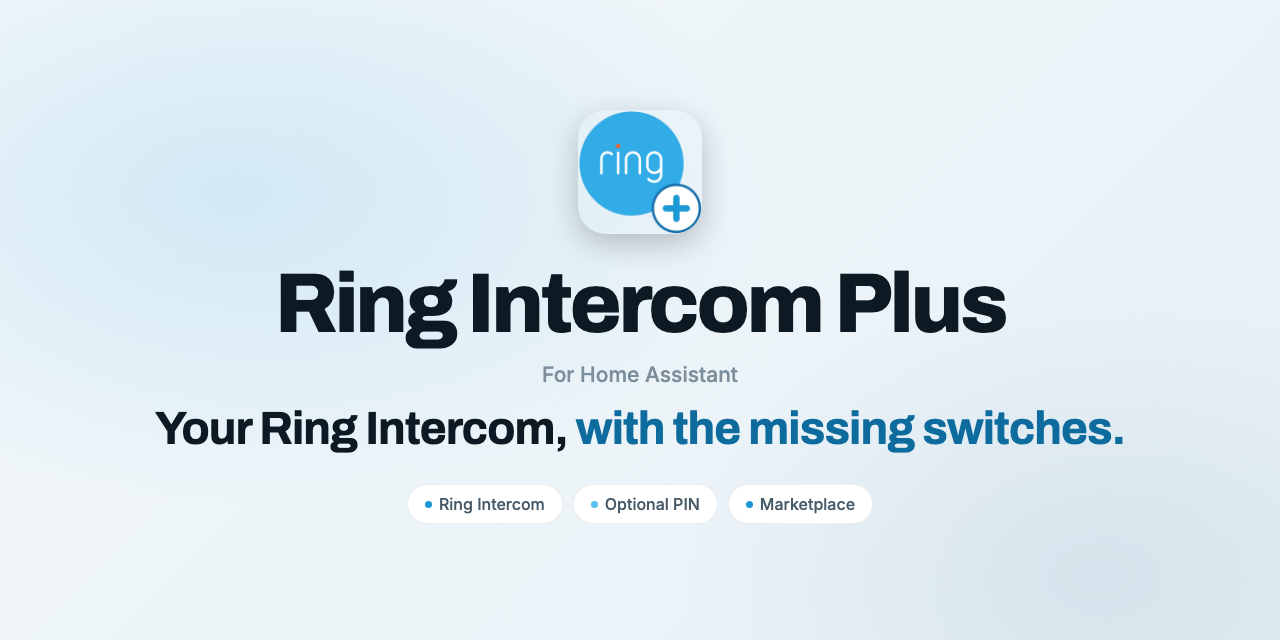
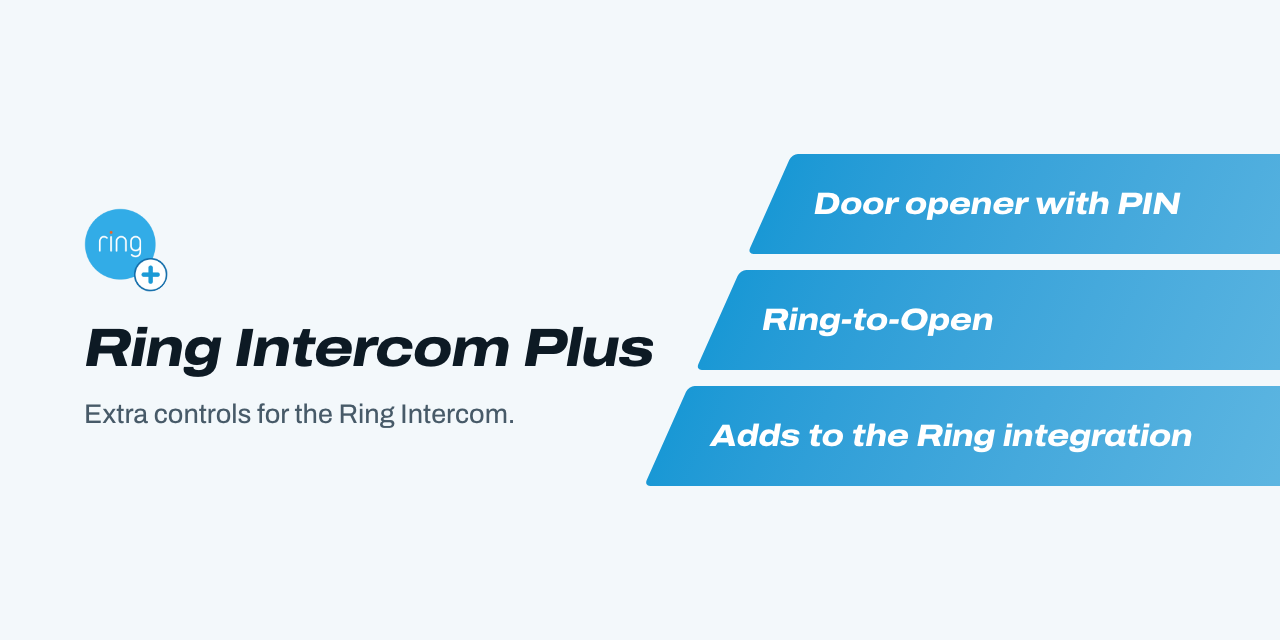
README and project page in the v2 design
Title banner with the lanes, Install and Set up as one Get started, shared
footer. The page loads theme v2 (Archivo from sh1ft-w.github.io), hero left
with the three key facts on the lanes.

Claude-Session: https://claude.ai/code/session_01TLmTtZLAvnS1BJ3w9tzxXq

diff --git a/docs/index.html b/docs/index.html
@@ -13,32 +13,30 @@
 <meta property="og:description" content="Door opener, ding, call active and more for the Ring Intercom in Home Assistant.">
 <meta property="og:image" content="https://sh1ft-w.github.io/ring-intercom-plus/images/readme-title-social.png">
 <link rel="icon" href="logo.png">
-<link rel="preconnect" href="https://fonts.googleapis.com">
-<link rel="preconnect" href="https://fonts.gstatic.com" crossorigin>
-<link href="https://fonts.googleapis.com/css2?family=Archivo:wght@600;700;800;900&family=Inter:wght@400;500;600&family=JetBrains+Mono:wght@400;500&display=swap" rel="stylesheet">
-<!-- Shared SH1FT-W design (tokens, glass navigation, light/dark, DE/EN, reveal) -->
-<link rel="stylesheet" href="https://sh1ft-w.github.io/theme/v1/theme.css">
-<script src="https://sh1ft-w.github.io/theme/v1/theme.js"></script>
+<!-- Shared SH1FT-W design, version 2 (tokens, Archivo, navigation, light/dark, DE/EN, the lanes) -->
+<link rel="stylesheet" href="https://sh1ft-w.github.io/theme/v2/theme.css">
+<script src="https://sh1ft-w.github.io/theme/v2/theme.js"></script>
 <style>
 /* Ring-Plus-Palette: kühles Weiß bei Tag, tiefes Blau bei Nacht, Akzent im Ring-Blau #1998D5 */
 :root {
   --accent: #1998D5; --accent-ink: #0E6B9E; --on-accent: #ffffff;
-  --sea: #1998D5; --sea-tint: rgba(25,152,213,0.10); --sea-glow: rgba(25,152,213,0.30); --aqua: #3BB0E8;
+  --sea: #1998D5; --sea-tint: rgba(25,152,213,0.10); --aqua: #3BB0E8;
   --ch-w: #8FA3B1; --ch-b: #2F7FD8; --ch-g: #2FA36A; --ch-r: #E0584A;
-  --font: "Inter", -apple-system, BlinkMacSystemFont, system-ui, sans-serif;
-  --display: "Archivo", "Inter", -apple-system, BlinkMacSystemFont, system-ui, sans-serif;
-  --mono: "JetBrains Mono", ui-monospace, "SF Mono", Menlo, monospace;
+  --font: "Archivo", -apple-system, BlinkMacSystemFont, system-ui, sans-serif;
+  --display: "Archivo", -apple-system, BlinkMacSystemFont, system-ui, sans-serif;
+  --mono: ui-monospace, "SF Mono", Menlo, monospace;
+  --lane-a: #1998D5; --lane-b: #5BC0EE;
   --bg: #F3F8FB; --bg-2: #E6F0F6; --card: #FFFFFF; --card-2: #F0F6FA;
   --ink: #0D1A24; --ink-2: #475A68; --ink-3: rgba(13,26,36,0.56);
   --line: rgba(5,40,65,0.11); --chip: rgba(5,40,65,0.06);
   --glass: rgba(250,253,255,0.72); --glass-line: rgba(255,255,255,0.75);
   --shadow: 0 1px 2px rgba(5,30,50,0.05), 0 12px 32px -14px rgba(5,30,50,0.22);
   --shadow-lg: 0 2px 6px rgba(5,30,50,0.05), 0 48px 100px -36px rgba(5,30,50,0.40);
-  --radius: 26px; --radius-lg: 36px;
+  --radius: 20px; --radius-lg: 28px; --max: 1200px;
 }
 @media (prefers-color-scheme: dark) { :root:not([data-theme="light"]) {
   --accent: #3BB0E8; --accent-ink: #6CC8F3; --on-accent: #04121B;
-  --sea: #3BB0E8; --sea-tint: rgba(59,176,232,0.14); --sea-glow: rgba(59,176,232,0.28);
+  --sea: #3BB0E8; --sea-tint: rgba(59,176,232,0.14);
   --ch-w: #DCE6EC;
   --bg: #07121A; --bg-2: #0C1B26; --card: #10222F; --card-2: #162B3A;
   --ink: #EAF3F9; --ink-2: rgba(220,234,244,0.84); --ink-3: rgba(220,234,244,0.54);
@@ -48,7 +46,7 @@
 } }
 :root[data-theme="dark"] {
   --accent: #3BB0E8; --accent-ink: #6CC8F3; --on-accent: #04121B;
-  --sea: #3BB0E8; --sea-tint: rgba(59,176,232,0.14); --sea-glow: rgba(59,176,232,0.28);
+  --sea: #3BB0E8; --sea-tint: rgba(59,176,232,0.14);
   --ch-w: #DCE6EC;
   --bg: #07121A; --bg-2: #0C1B26; --card: #10222F; --card-2: #162B3A;
   --ink: #EAF3F9; --ink-2: rgba(220,234,244,0.84); --ink-3: rgba(220,234,244,0.54);
@@ -64,58 +62,53 @@ a:hover { text-decoration: underline; text-underline-offset: 3px; }
 .narrow { max-width: 780px; }
 p { margin: 0; }
 .muted { color: var(--ink-2); }
-.center { text-align: center; }
-.center .lead { margin-left: auto; margin-right: auto; max-width: 680px; }
+.center { text-align: left; }
+.center .lead { max-width: 680px; }
 code, .k { font-family: var(--mono); font-variant-numeric: tabular-nums; }
 .brand { font-family: var(--display); font-weight: 800; }
 .brand img { border-radius: 8px; }
 
 /* Knöpfe */
 .btn {
-  display: inline-flex; align-items: center; justify-content: center; gap: 8px; height: 48px; padding: 0 24px; border-radius: 999px;
+  display: inline-flex; align-items: center; justify-content: center; gap: 8px; height: 48px; padding: 0 24px; border-radius: 12px;
   font-family: inherit; font-size: 15px; font-weight: 600; line-height: 1; background: var(--sea); color: var(--on-accent); border: 0; cursor: pointer;
-  box-shadow: 0 12px 28px -12px var(--sea-glow); transition: transform .2s ease, filter .2s ease;
+  transition: transform .2s ease, filter .2s ease;
 }
 .btn:hover { text-decoration: none; filter: brightness(1.1); transform: translateY(-1px); }
-.btn.ghost { background: var(--card); color: var(--ink); box-shadow: var(--shadow); }
+.btn.ghost { background: var(--chip); color: var(--ink); }
 .btn.small { height: 36px; padding: 0 16px; font-size: 14px; }
 
 /* Schrift */
-.eyebrow { display: inline-flex; align-items: center; gap: 8px; font-size: 13px; font-weight: 600; letter-spacing: 0.08em; text-transform: uppercase; color: var(--accent-ink); margin: 0 0 18px; }
-.eyebrow::before { content: ""; width: 8px; height: 8px; border-radius: 50%; background: var(--aqua); box-shadow: 0 0 0 4px var(--sea-tint); }
+.eyebrow { font-size: 16px; font-weight: 650; color: var(--accent-ink); margin: 0 0 12px; }
 h1, h2, h3 { margin: 0; color: var(--ink); font-family: var(--display); font-weight: 800; text-wrap: balance; }
-h1 { font-size: clamp(44px, 8vw, 100px); line-height: 0.96; letter-spacing: -0.04em; font-weight: 900; }
-h1 em, h2 em { font-style: normal; color: var(--accent-ink); }
-h2 { font-size: clamp(34px, 5vw, 60px); line-height: 1.03; letter-spacing: -0.035em; }
-h3 { font-size: 20px; line-height: 1.2; letter-spacing: -0.015em; font-weight: 700; }
+h1 { font-size: clamp(44px, 6vw, 84px); line-height: 1; font-weight: 800; font-stretch: 118%; font-style: italic; letter-spacing: -0.025em; }
+h1 em, h2 em { font-style: inherit; color: inherit; }
+h2 { font-size: clamp(30px, 3.8vw, 48px); line-height: 1.08; font-weight: 750; font-stretch: 112%; letter-spacing: -0.02em; }
+h3 { font-size: 20px; line-height: 1.2; letter-spacing: -0.015em; font-weight: 700; font-stretch: 106%; }
 .lead { font-size: clamp(18px, 2vw, 22px); line-height: 1.5; color: var(--ink-2); margin: 22px 0 0; }
 .lead strong { color: var(--ink); font-weight: 600; }
 
 section { padding: clamp(72px, 9vw, 120px) 0; position: relative; }
 section.tint { background: var(--bg-2); }
-.head { margin-bottom: clamp(36px, 5vw, 60px); }
-.cap { margin-top: 20px; font-size: 15px; color: var(--ink-3); text-align: center; }
+.head { margin-bottom: clamp(36px, 5vw, 60px); max-width: 50em; }
+.cap { margin-top: 20px; font-size: 15px; color: var(--ink-3); }
 
-/* Hero */
-.hero { padding: clamp(56px, 9vw, 112px) 0 clamp(64px, 8vw, 104px); text-align: center; overflow: hidden; }
-.hero .glow { position: absolute; inset: -20% -10% auto; height: 90%; pointer-events: none;
-  background: radial-gradient(40% 36% at 30% 30%, rgba(25,152,213,0.18), transparent 70%), radial-gradient(36% 34% at 72% 24%, rgba(10,70,120,0.12), transparent 70%);
-  filter: blur(50px); }
-.hero .wrap { position: relative; }
-.hero .lead { max-width: 660px; margin-left: auto; margin-right: auto; }
-.cta { display: flex; flex-wrap: wrap; gap: 12px; justify-content: center; margin-top: 34px; }
-.meta { margin-top: 22px; font-size: 14px; color: var(--ink-3); display: flex; flex-wrap: wrap; gap: 8px 14px; justify-content: center; align-items: center; }
-.pill { display: inline-flex; align-items: center; gap: 6px; padding: 5px 12px; border-radius: 999px; background: var(--card); box-shadow: var(--shadow); font-weight: 600; color: var(--ink-2); font-size: 13px; }
+/* Hero: text left, the lanes right */
+.hero { padding: clamp(48px, 7vw, 96px) 0 clamp(56px, 7vw, 96px); overflow: hidden; }
+.hero .wrap { display: grid; grid-template-columns: minmax(0, 1.15fr) minmax(0, 1fr); gap: clamp(24px, 4vw, 64px); align-items: center; }
+.hero .mark { display: block; width: 64px; height: 64px; border-radius: 15px; margin-bottom: 26px; }
+.hero .lead { max-width: 34em; }
+.hero .s-lanes { margin-left: 32px; margin-right: calc(-1 * var(--gutter) - 14vw); }
+.s-track b { color: #fff; font: italic 800 clamp(20px, 2.5vw, 34px)/1 var(--font); font-stretch: 116%; letter-spacing: -0.015em; white-space: nowrap; }
+.cta { display: flex; flex-wrap: wrap; gap: 12px; margin-top: 34px; }
+.meta { margin-top: 22px; font-size: 14px; color: var(--ink-3); display: flex; flex-wrap: wrap; gap: 8px 14px; align-items: center; }
+.pill { display: inline-flex; align-items: center; gap: 6px; padding: 5px 12px; border-radius: 8px; background: var(--chip); font-weight: 600; color: var(--ink-2); font-size: 13px; }
 .pill i { width: 7px; height: 7px; border-radius: 50%; background: var(--aqua); display: inline-block; }
-
-/* Bühne: das README-Titelbild */
-.stage { position: relative; margin: clamp(48px, 7vw, 84px) auto 0; max-width: 1100px; }
-.stage .photo { display: block; width: 100%; height: auto; aspect-ratio: 2 / 1; border-radius: var(--radius-lg); box-shadow: var(--shadow-lg); }
 
 /* Bento: Gerade neu */
 .bento { display: grid; grid-template-columns: repeat(12, 1fr); gap: 16px; }
-.b { background: var(--card); border-radius: var(--radius); box-shadow: var(--shadow); padding: 26px 28px 28px; min-width: 0; }
-.b .tag { display: inline-block; font-size: 12px; font-weight: 600; letter-spacing: 0.06em; text-transform: uppercase; color: var(--accent-ink); background: var(--sea-tint); padding: 4px 10px; border-radius: 999px; margin-bottom: 14px; }
+.b { background: var(--card); border-radius: var(--radius); border: 1px solid var(--line); padding: 26px 28px 28px; min-width: 0; }
+.b .tag { display: inline-block; font-size: 13px; font-weight: 600; color: var(--accent-ink); background: var(--sea-tint); padding: 4px 10px; border-radius: 6px; margin-bottom: 14px; }
 .b h3 { margin-bottom: 8px; }
 .b p { color: var(--ink-2); font-size: 16px; }
 .b code { font-size: 14px; background: var(--chip); padding: 2px 6px; border-radius: 6px; color: var(--ink); }
@@ -123,11 +116,11 @@ section.tint { background: var(--bg-2); }
 
 /* Funktionen */
 .grid3 { display: grid; grid-template-columns: repeat(3, minmax(0, 1fr)); gap: 16px; }
-.tile { background: var(--card); border-radius: var(--radius); padding: 28px; box-shadow: var(--shadow); min-width: 0; }
+.tile { background: var(--card); border-radius: var(--radius); padding: 28px; border: 1px solid var(--line); min-width: 0; }
 .tile h3 { margin-bottom: 8px; }
 .tile p { color: var(--ink-2); font-size: 16px; }
 .tile code { font-size: 14px; background: var(--chip); padding: 2px 6px; border-radius: 6px; }
-.tile .ico { width: 46px; height: 46px; border-radius: 15px; background: var(--sea-tint); color: var(--accent-ink); display: grid; place-items: center; margin-bottom: 18px; }
+.tile .ico { width: 46px; height: 46px; border-radius: 10px; background: var(--sea-tint); color: var(--accent-ink); display: grid; place-items: center; margin-bottom: 18px; }
 .tile .ico svg { width: 23px; height: 23px; }
 
 /* Profil-Illustration */
@@ -136,7 +129,7 @@ section.tint { background: var(--bg-2); }
 .points li { display: grid; gap: 2px; }
 .points b { font-family: var(--display); font-size: 17px; font-weight: 700; color: var(--ink); }
 .points span { color: var(--ink-2); font-size: 16px; }
-.prof { background: var(--card); border-radius: var(--radius-lg); box-shadow: var(--shadow-lg); padding: clamp(22px, 4vw, 36px); min-width: 0; }
+.prof { background: var(--card); border-radius: var(--radius-lg); border: 1px solid var(--line); padding: clamp(22px, 4vw, 36px); min-width: 0; }
 .prof-head { display: flex; justify-content: space-between; align-items: center; gap: 12px; flex-wrap: wrap; }
 .prof-head b { font-family: var(--display); font-size: 18px; }
 .days { display: flex; gap: 6px; flex-wrap: wrap; margin-top: 16px; }
@@ -154,9 +147,9 @@ section.tint { background: var(--bg-2); }
 .prof-foot b { font-weight: 600; font-size: 15px; }
 
 /* Entitäten-Tabelle */
-.tbl { width: 100%; border-collapse: separate; border-spacing: 0; background: var(--card); border-radius: var(--radius); box-shadow: var(--shadow); overflow: hidden; font-size: 15px; }
+.tbl { width: 100%; border-collapse: separate; border-spacing: 0; background: var(--card); border-radius: var(--radius); border: 1px solid var(--line); overflow: hidden; font-size: 15px; }
 .tbl th, .tbl td { text-align: left; padding: 14px 18px; border-top: 1px solid var(--line); vertical-align: top; }
-.tbl thead th { border-top: 0; font-size: 12px; font-weight: 600; letter-spacing: 0.06em; text-transform: uppercase; color: var(--accent-ink); background: var(--card-2); }
+.tbl thead th { border-top: 0; font-size: 13px; font-weight: 600; color: var(--accent-ink); background: var(--card-2); }
 .tbl td:first-child { font-weight: 600; white-space: nowrap; }
 .tbl.core td:first-child { white-space: normal; }
 .tbl.core th:not(:first-child), .tbl.core td:not(:first-child) { text-align: center; width: 26%; color: var(--accent-ink); font-weight: 600; }
@@ -165,7 +158,7 @@ section.tint { background: var(--bg-2); }
 
 /* Wie es funktioniert */
 .flow { display: grid; gap: 12px; max-width: 900px; margin: 0 auto; }
-.lane { display: grid; grid-template-columns: 1fr auto 1fr; gap: 16px; align-items: center; background: var(--card); border-radius: 22px; box-shadow: var(--shadow); padding: 18px 22px; }
+.lane { display: grid; grid-template-columns: 1fr auto 1fr; gap: 16px; align-items: center; background: var(--card); border-radius: 22px; border: 1px solid var(--line); padding: 18px 22px; }
 .lane .end b { display: block; font-family: var(--display); font-size: 16px; }
 .lane .end span { font-size: 14px; color: var(--ink-2); }
 .lane .end.r { text-align: right; }
@@ -174,12 +167,12 @@ section.tint { background: var(--bg-2); }
 
 /* Installation */
 .install { display: grid; grid-template-columns: 1.2fr 1fr; gap: 20px; }
-.panel { background: var(--card); border-radius: var(--radius); padding: clamp(26px, 4vw, 42px); box-shadow: var(--shadow); min-width: 0; }
+.panel { background: var(--card); border-radius: var(--radius); padding: clamp(26px, 4vw, 42px); border: 1px solid var(--line); min-width: 0; }
 .panel h3 { margin-bottom: 6px; }
 .panel code { font-size: 14px; background: var(--chip); padding: 2px 6px; border-radius: 6px; overflow-wrap: anywhere; }
-.repo { margin-top: 10px; display: flex; align-items: center; gap: 8px; background: var(--chip); border-radius: 18px; padding: 8px 8px 8px 18px; }
+.repo { margin-top: 10px; display: flex; align-items: center; gap: 8px; background: var(--chip); border-radius: 12px; padding: 8px 8px 8px 18px; }
 .repo code { flex: 1; min-width: 0; font-size: 15px; background: none; padding: 0; color: var(--ink); overflow-wrap: anywhere; }
-.copy { flex: none; height: 34px; padding: 0 14px; border-radius: 999px; border: 0; background: var(--card); color: var(--ink); font-family: inherit; font-size: 13px; font-weight: 600; cursor: pointer; box-shadow: 0 1px 2px rgba(0,0,0,0.12); }
+.copy { flex: none; height: 34px; padding: 0 14px; border-radius: 8px; border: 1px solid var(--line); background: var(--card); color: var(--ink); font-family: inherit; font-size: 13px; font-weight: 600; cursor: pointer; }
 .steps { list-style: none; padding: 0; margin: 28px 0 0; display: grid; gap: 20px; counter-reset: s; }
 .steps li { position: relative; padding-left: 50px; color: var(--ink-2); }
 .steps li::before { counter-increment: s; content: counter(s); position: absolute; left: 0; top: -3px; width: 34px; height: 34px; border-radius: 50%; display: grid; place-items: center; background: var(--sea-tint); color: var(--accent-ink); font-weight: 700; font-size: 15px; }
@@ -188,14 +181,14 @@ section.tint { background: var(--bg-2); }
 .req li { display: flex; gap: 14px; align-items: baseline; padding: 14px 0; border-top: 1px solid var(--line); font-size: 16px; }
 .req li:first-child { border-top: 0; padding-top: 6px; }
 .req .name { color: var(--ink); font-weight: 600; flex: 1; min-width: 0; }
-.tg { flex: none; font-size: 12px; font-weight: 600; letter-spacing: 0.04em; text-transform: uppercase; padding: 4px 10px; border-radius: 999px; background: var(--sea-tint); color: var(--accent-ink); }
+.tg { flex: none; font-size: 13px; font-weight: 600; padding: 4px 10px; border-radius: 6px; background: var(--sea-tint); color: var(--accent-ink); }
 .tg.opt { background: var(--chip); color: var(--ink-3); }
 .note { margin-top: 20px; font-size: 14px; color: var(--ink-3); }
 .full { grid-column: 1 / -1; }
 
 /* FAQ */
 .faq { display: grid; gap: 10px; }
-.faq details { background: var(--card); border-radius: 20px; box-shadow: var(--shadow); padding: 0 22px; }
+.faq details { background: var(--card); border-radius: 20px; border: 1px solid var(--line); padding: 0 22px; }
 .faq summary { cursor: pointer; list-style: none; padding: 18px 0; font-family: var(--display); font-weight: 700; font-size: 17px; display: flex; gap: 12px; align-items: center; }
 .faq summary::-webkit-details-marker { display: none; }
 .faq summary::after { content: "+"; margin-left: auto; font-size: 22px; color: var(--accent-ink); font-weight: 600; }
@@ -219,7 +212,6 @@ footer .fine { flex-basis: 100%; line-height: 1.6; }
 }
 @media (max-width: 640px) {
   body { font-size: 16px; }
-  :root { --radius: 22px; --radius-lg: 28px; }
   .nav { padding: 0 8px 0 14px; }
   .nav .btn { margin-left: auto; }
   .grid3 { grid-template-columns: 1fr; }
@@ -241,9 +233,16 @@ footer .fine { flex-basis: 100%; line-height: 1.6; }
   .tbl td { border: 0; padding: 2px 0; }
   .tbl.core { display: table; font-size: 14px; } .tbl.core thead { display: table-header-group; } .tbl.core tbody { display: table-row-group; }
   .tbl.core tr { display: table-row; padding: 0; } .tbl.core th, .tbl.core td { display: table-cell; padding: 10px; border-top: 1px solid var(--line); }
-  .tbl.core thead th { border-top: 0; font-size: 11px; letter-spacing: 0.02em; }
+  .tbl.core thead th { border-top: 0; font-size: 11px; }
   .tbl td:first-child { white-space: normal; }
 }
+@media (max-width: 900px) { .hero .wrap { grid-template-columns: 1fr; } .hero .s-lanes { margin: 8px calc(-1 * var(--gutter) - 8vw) 0 44px; } }
+/* The long name needs the room: links go earlier, the nav button on phones (the hero has one) */
+@media (max-width: 1120px) { .nav-links { display: none; } .nav > .iconbtn { margin-left: auto; } .nav > .btn { margin-left: 0; } }
+@media (max-width: 480px) { .nav > .btn { display: none; } }
+@media (max-width: 380px) { .nav { gap: 4px; padding-left: 10px; } .nav .brand { font-size: 15px; gap: 6px; } }
+/* The longest lane text has to fit a small phone */
+@media (max-width: 420px) { .s-track b { font-size: 17px; } }
 </style>
 </head>
 <body>
@@ -270,25 +269,24 @@ footer .fine { flex-basis: 100%; line-height: 1.6; }
 </div>
 
 <section class="hero" id="top">
-  <div class="glow" aria-hidden="true"></div>
   <div class="wrap">
-    <p class="eyebrow reveal"><span class="en">Ring Intercom in Home Assistant</span><span class="de">Ring Intercom in Home Assistant</span></p>
-    <h1 class="reveal d1"><span class="en">Your Ring Intercom,<br><em>with the missing switches.</em></span><span class="de">Deine Ring Intercom,<br><em>mit den fehlenden Schaltern.</em></span></h1>
-    <p class="lead reveal d2"><span class="en">Ring Intercom Plus runs next to the official Ring integration and uses its login: <strong>door opener with optional PIN, ding, call active, Ring-to-Open, unlock duration and restart</strong>. Nothing to enter during setup.</span><span class="de">Ring Intercom Plus läuft neben der offiziellen Ring-Integration und nutzt deren Anmeldung: <strong>Türöffner mit optionaler PIN, Klingel, Anruf aktiv, Ring-to-Open, Öffnungsdauer und Neustart</strong>. Bei der Einrichtung gibt es nichts einzugeben.</span></p>
-    <div class="cta reveal d3">
-      <a class="btn" href="#install"><span class="en">Install from the Marketplace</span><span class="de">Über den Marketplace installieren</span></a>
-      <a class="btn ghost" href="https://github.com/SH1FT-W/ring-intercom-plus#readme"><span class="en">Read the README</span><span class="de">Zur Anleitung</span></a>
+    <div>
+      <img class="mark" src="logo.png" alt="" width="64" height="64">
+      <h1><span class="en">Your Ring Intercom, with the missing switches.</span><span class="de">Deine Ring Intercom, mit den fehlenden Schaltern.</span></h1>
+      <p class="lead reveal d2"><span class="en">Ring Intercom Plus runs next to the official Ring integration and uses its login: <strong>door opener with optional PIN, ding, call active, Ring-to-Open, unlock duration and restart</strong>. Nothing to enter during setup.</span><span class="de">Ring Intercom Plus läuft neben der offiziellen Ring-Integration und nutzt deren Anmeldung: <strong>Türöffner mit optionaler PIN, Klingel, Anruf aktiv, Ring-to-Open, Öffnungsdauer und Neustart</strong>. Bei der Einrichtung gibt es nichts einzugeben.</span></p>
+      <div class="cta reveal d3">
+        <a class="btn" href="#install"><span class="en">Install from the Marketplace</span><span class="de">Über den Marketplace installieren</span></a>
+        <a class="btn ghost" href="https://github.com/SH1FT-W/ring-intercom-plus#readme"><span class="en">Read the README</span><span class="de">Zur Anleitung</span></a>
+      </div>
+      <p class="meta reveal d3">
+        <span class="pill"><i></i><span id="hl-version">Version 26.10.2</span></span>
+        <span class="en">Home Assistant 2026.9 or newer &middot; English and German &middot; Apache 2.0</span><span class="de">Home Assistant 2026.9 oder neuer &middot; Deutsch und Englisch &middot; Apache 2.0</span>
+      </p>
     </div>
-    <p class="meta reveal d3">
-      <span class="pill"><i></i><span id="hl-version">Version 26.10.2</span></span>
-      <span class="en">Home Assistant 2026.9 or newer &middot; English and German &middot; Apache 2.0</span><span class="de">Home Assistant 2026.9 oder neuer &middot; Deutsch und Englisch &middot; Apache 2.0</span>
-    </p>
-
-    <div class="stage reveal d3">
-      <picture>
-        <source media="(prefers-color-scheme: dark)" srcset="images/readme-title-dark.webp">
-        <img class="photo" src="images/readme-title-light.webp" width="2560" height="1280" alt="Ring Intercom Plus: Your Ring Intercom, with the missing switches.">
-      </picture>
+    <div class="s-lanes" aria-hidden="true">
+      <div class="s-lane"><div class="s-track"><b><span class="en">Door opener with PIN</span><span class="de">Türöffner mit PIN</span></b></div></div>
+      <div class="s-lane"><div class="s-track"><b><span class="en">Ring-to-Open</span><span class="de">Ring-to-Open</span></b></div></div>
+      <div class="s-lane"><div class="s-track"><b><span class="en">Adds to the Ring integration</span><span class="de">Ergänzt die Ring-Integration</span></b></div></div>
     </div>
   </div>
 </section>

diff --git a/README.md b/README.md
@@ -2,14 +2,14 @@
 
 <picture>
   <source media="(prefers-color-scheme: dark)" srcset="docs/images/readme-title-dark.webp" />
-  <img src="docs/images/readme-title-light.webp" alt="Ring Intercom Plus: Your Ring Intercom, with the missing switches." />
+  <img src="docs/images/readme-title-light.webp" alt="Ring Intercom Plus: extra controls for the Ring Intercom. Door opener with PIN. Ring-to-Open. Adds to the Ring integration." />
 </picture>
 
 [![Version](https://img.shields.io/badge/dynamic/json?url=https%3A%2F%2Fraw.githubusercontent.com%2FSH1FT-W%2Fring-intercom-plus%2Fmain%2Fcustom_components%2Fring_plus%2Fmanifest.json&query=%24.version&label=version&style=flat-square&color=1998D5&labelColor=111111)](https://github.com/SH1FT-W/ring-intercom-plus/releases/latest)
 [![Home Assistant](https://img.shields.io/badge/Home%20Assistant-2026.9%2B-1998D5?style=flat-square&labelColor=111111&logo=homeassistant&logoColor=white)](https://www.home-assistant.io)
 [![Marketplace](https://img.shields.io/badge/Marketplace-custom%20repository-1998D5?style=flat-square&labelColor=111111)](https://hacs.xyz)
 
-<a href="https://sh1ft-w.github.io/ring-intercom-plus"><b>Website</b></a>&emsp;<a href="#install">Install</a>&emsp;<a href="#set-up">Set up</a>&emsp;<a href="#entities">Entities</a>&emsp;<a href="#next-ring-opens">Next ring opens</a>&emsp;<a href="CHANGELOG.md">Changelog</a>
+<a href="https://sh1ft-w.github.io/ring-intercom-plus"><b>Website</b></a>&emsp;<a href="#get-started">Get started</a>&emsp;<a href="#entities">Entities</a>&emsp;<a href="#next-ring-opens">Next ring opens</a>&emsp;<a href="CHANGELOG.md">Changelog</a>
 
 </div>
 
@@ -22,7 +22,7 @@ Everything goes through the Ring cloud, using the requests the Ring app sends. R
 > [!WARNING]
 > **The door opener opens a real door.** Without a PIN it does so on every `lock.unlock` call: voice assistants, dashboards, automations, scripts and anyone with access to your Home Assistant. Set a PIN in the options and do not expose the lock to voice assistants if you do not want that.
 
-## What it adds to the Ring integration
+## What you get
 
 |  | Ring integration | With Ring Intercom Plus |
 |:--|:--:|:--:|
@@ -35,10 +35,17 @@ Everything goes through the Ring cloud, using the requests the Ring app sends. R
 
 **New in 26.11:** Next ring opens with a time window of up to 8 hours or a schedule, and a Last opened sensor (in beta 26.11.2b1). Every change is in the [changelog](CHANGELOG.md).
 
-<a id="install"></a>
-## Install
+<a id="get-started"></a><a id="install"></a><a id="set-up"></a>
+## Get started
 
-Ring Intercom Plus is a custom repository. Under **Settings > Marketplace** (called HACS before Home Assistant 2026.11), open the three dots menu, choose **Custom repositories** and add `https://github.com/SH1FT-W/ring-intercom-plus` with the type **Integration**. Then search for **Ring Intercom Plus**, download it and restart Home Assistant.
+The **official Ring integration** must be set up and show the intercom as a device, with its event entities for ding and intercom unlock enabled.
+
+1. **Install it.** Ring Intercom Plus is a custom repository. Under **Settings > Marketplace** (called HACS before Home Assistant 2026.11), open the three dots menu, choose **Custom repositories** and add `https://github.com/SH1FT-W/ring-intercom-plus` with the type **Integration**. Then search for **Ring Intercom Plus**, download it and restart Home Assistant.
+2. **Add the integration.** **Settings > Devices & services > Add integration > Ring Intercom Plus.** It finds the Ring integration and its intercoms by itself; without Ring the setup stops with a message.
+3. **Set a PIN** (recommended). **Configure > PIN for the door opener**, 4 to 8 digits. From then on the lock opens only with the right code, in dashboards, automations and voice assistants alike. Leave the field empty to remove it.
+4. **Pick a schedule** (optional). **Configure > Schedule for "Next ring opens"**, see [below](#next-ring-opens).
+
+The entities sit on the intercom's device of the Ring integration. Coming from ring-mqtt, you can rename them to your old entity IDs; automations and dashboards then keep working.
 
 <details>
 <summary>Install by hand</summary>
@@ -47,17 +54,6 @@ Ring Intercom Plus is a custom repository. Under **Settings > Marketplace** (cal
 2. Copy `custom_components/ring_plus` into `/config/custom_components/` and restart Home Assistant.
 
 </details>
-
-<a id="set-up"></a>
-## Set up
-
-The **official Ring integration** must be set up and show the intercom as a device, with its event entities for ding and intercom unlock enabled.
-
-1. **Add the integration.** **Settings > Devices & services > Add integration > Ring Intercom Plus.** It finds the Ring integration and its intercoms by itself; without Ring the setup stops with a message.
-2. **Set a PIN** (recommended). **Configure > PIN for the door opener**, 4 to 8 digits. From then on the lock opens only with the right code, in dashboards, automations and voice assistants alike. Leave the field empty to remove it.
-3. **Pick a schedule** (optional). **Configure > Schedule for "Next ring opens"**, see [below](#next-ring-opens).
-
-The entities sit on the intercom's device of the Ring integration. Coming from ring-mqtt, you can rename them to your old entity IDs; automations and dashboards then keep working.
 
 <a id="entities"></a>
 ## Entities
@@ -212,3 +208,11 @@ Test requirements: `pip install -r requirements_test.txt`. The tests never talk 
 [Apache License 2.0](LICENSE). Copyright 2026 SH1FT-W. Acknowledgements in [`NOTICE`](NOTICE).
 
 <sub>Ring Intercom Plus is an independent project, not affiliated with, endorsed or sponsored by Ring LLC or Amazon. Ring is a trademark of Ring LLC or its affiliates.</sub>
+
+<br/>
+
+<div align="center">
+<a href="https://sh1ft-w.github.io"><img src="https://sh1ft-w.github.io/readme/footer.png" width="640" alt="All SH1FT-W projects"></a>
+<br/>
+<sub>More open source for Home Assistant and the Mac at <a href="https://sh1ft-w.github.io">sh1ft-w.github.io</a></sub>
+</div>

diff --git a/CLAUDE.md b/CLAUDE.md
@@ -57,7 +57,7 @@ Versions-Badge im README und die Versionszeile der Projektseite (`docs/index.htm
 - GitHub Actions `.github/workflows/pruefung.yml`: dasselbe bei Push/PR auf main, montags zusätzlich gegen die
   neueste HA, plus hassfest; Abdeckungsgrenze 95 %. `.github/workflows/hacs.yml`: HACS-Validierung.
 - `tools/next-version` und `tools/pruefe-uebersetzungen.py` sind byteidentische Kopien der gemeinsamen Vorlagen.
-- README-Bilder: Titelbild aus `docs/readme-images.json` mit `theme/v1/readme-images/render.mjs <repo>`
-  aus sh1ft-w.github.io: Titel als `docs/images/readme-title-{light,dark}.webp` (2560 × 1280, Fenster zeigt
-  `docs/images/title-shot-*.png`, den Funktionsblock der Projektseite mit 2× aufgenommen) plus `readme-title-social.png`
-  für die GitHub-Vorschau; README-Aufbau nach `repo-vorlagen/readme-muster.md`, ohne Kartentabellen. Die Projektseite zeigt das Titelbild im Hero.
+- README-Bilder aus `docs/readme-images.json` mit `theme/v2/readme-images/render.mjs <repo>` aus sh1ft-w.github.io:
+  Titel-Banner `docs/images/readme-title-{light,dark}.webp` (2560 × 880) plus `readme-title-social.png` (1280 × 640) für die
+  GitHub-Vorschau, aus `title.name`, `title.line` und drei `title.lanes`. README- und Seitenaufbau nach
+  `repo-vorlagen/readme-muster.md` (Design v2: Hero mit den drei Bahnen, kein Titelbild im Hero).
